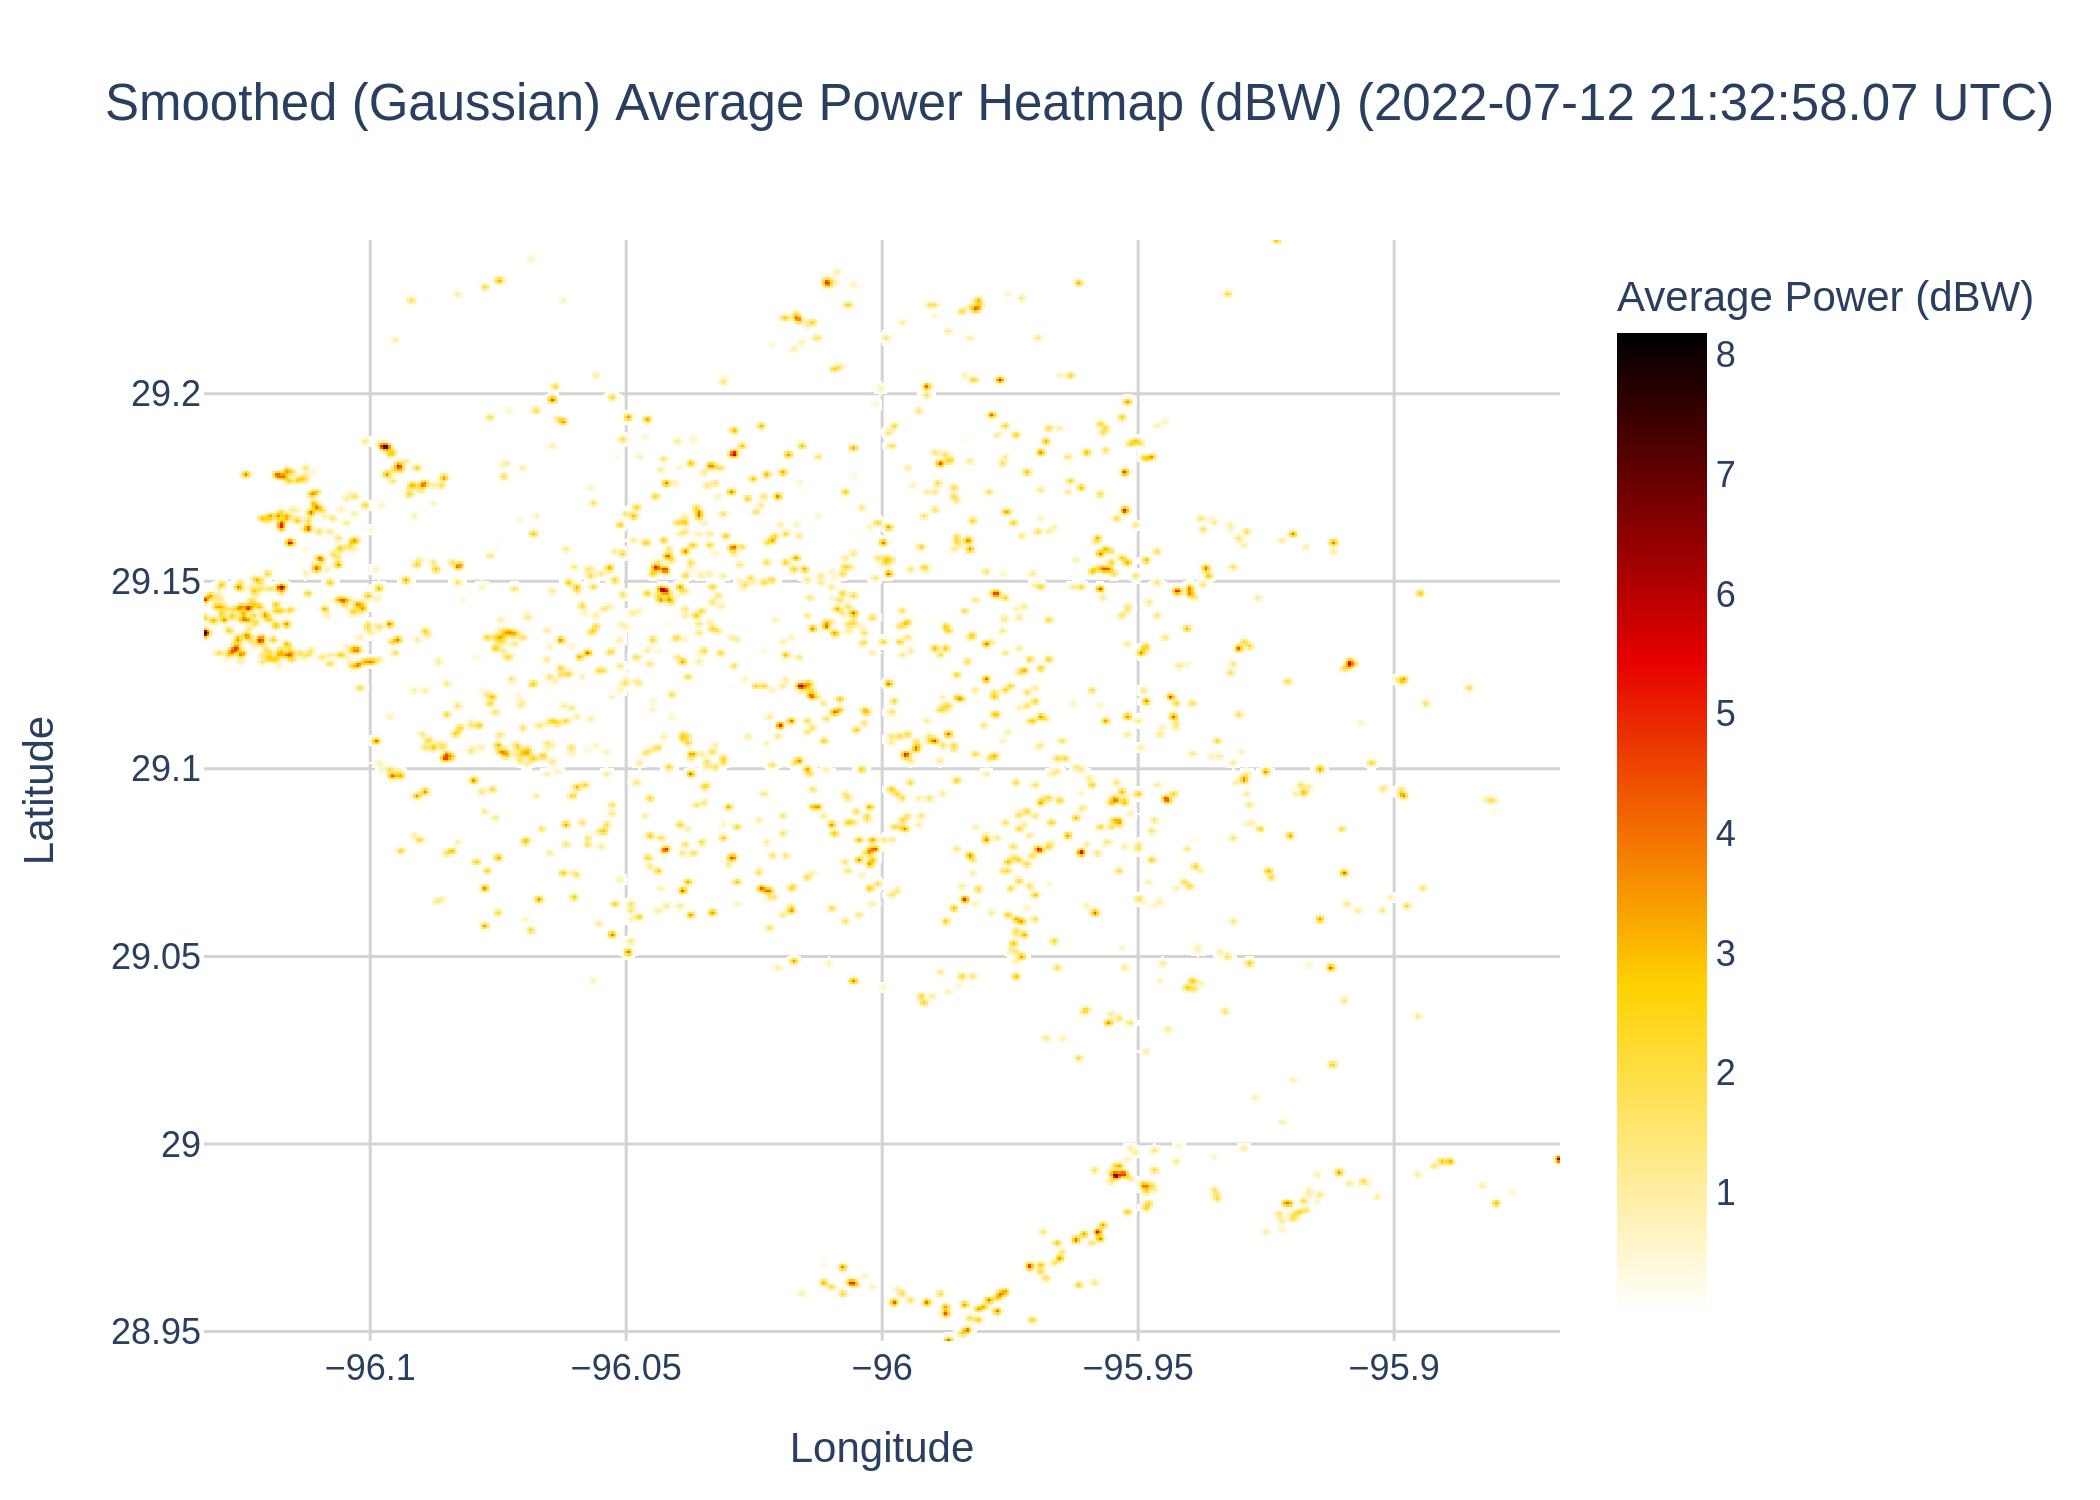
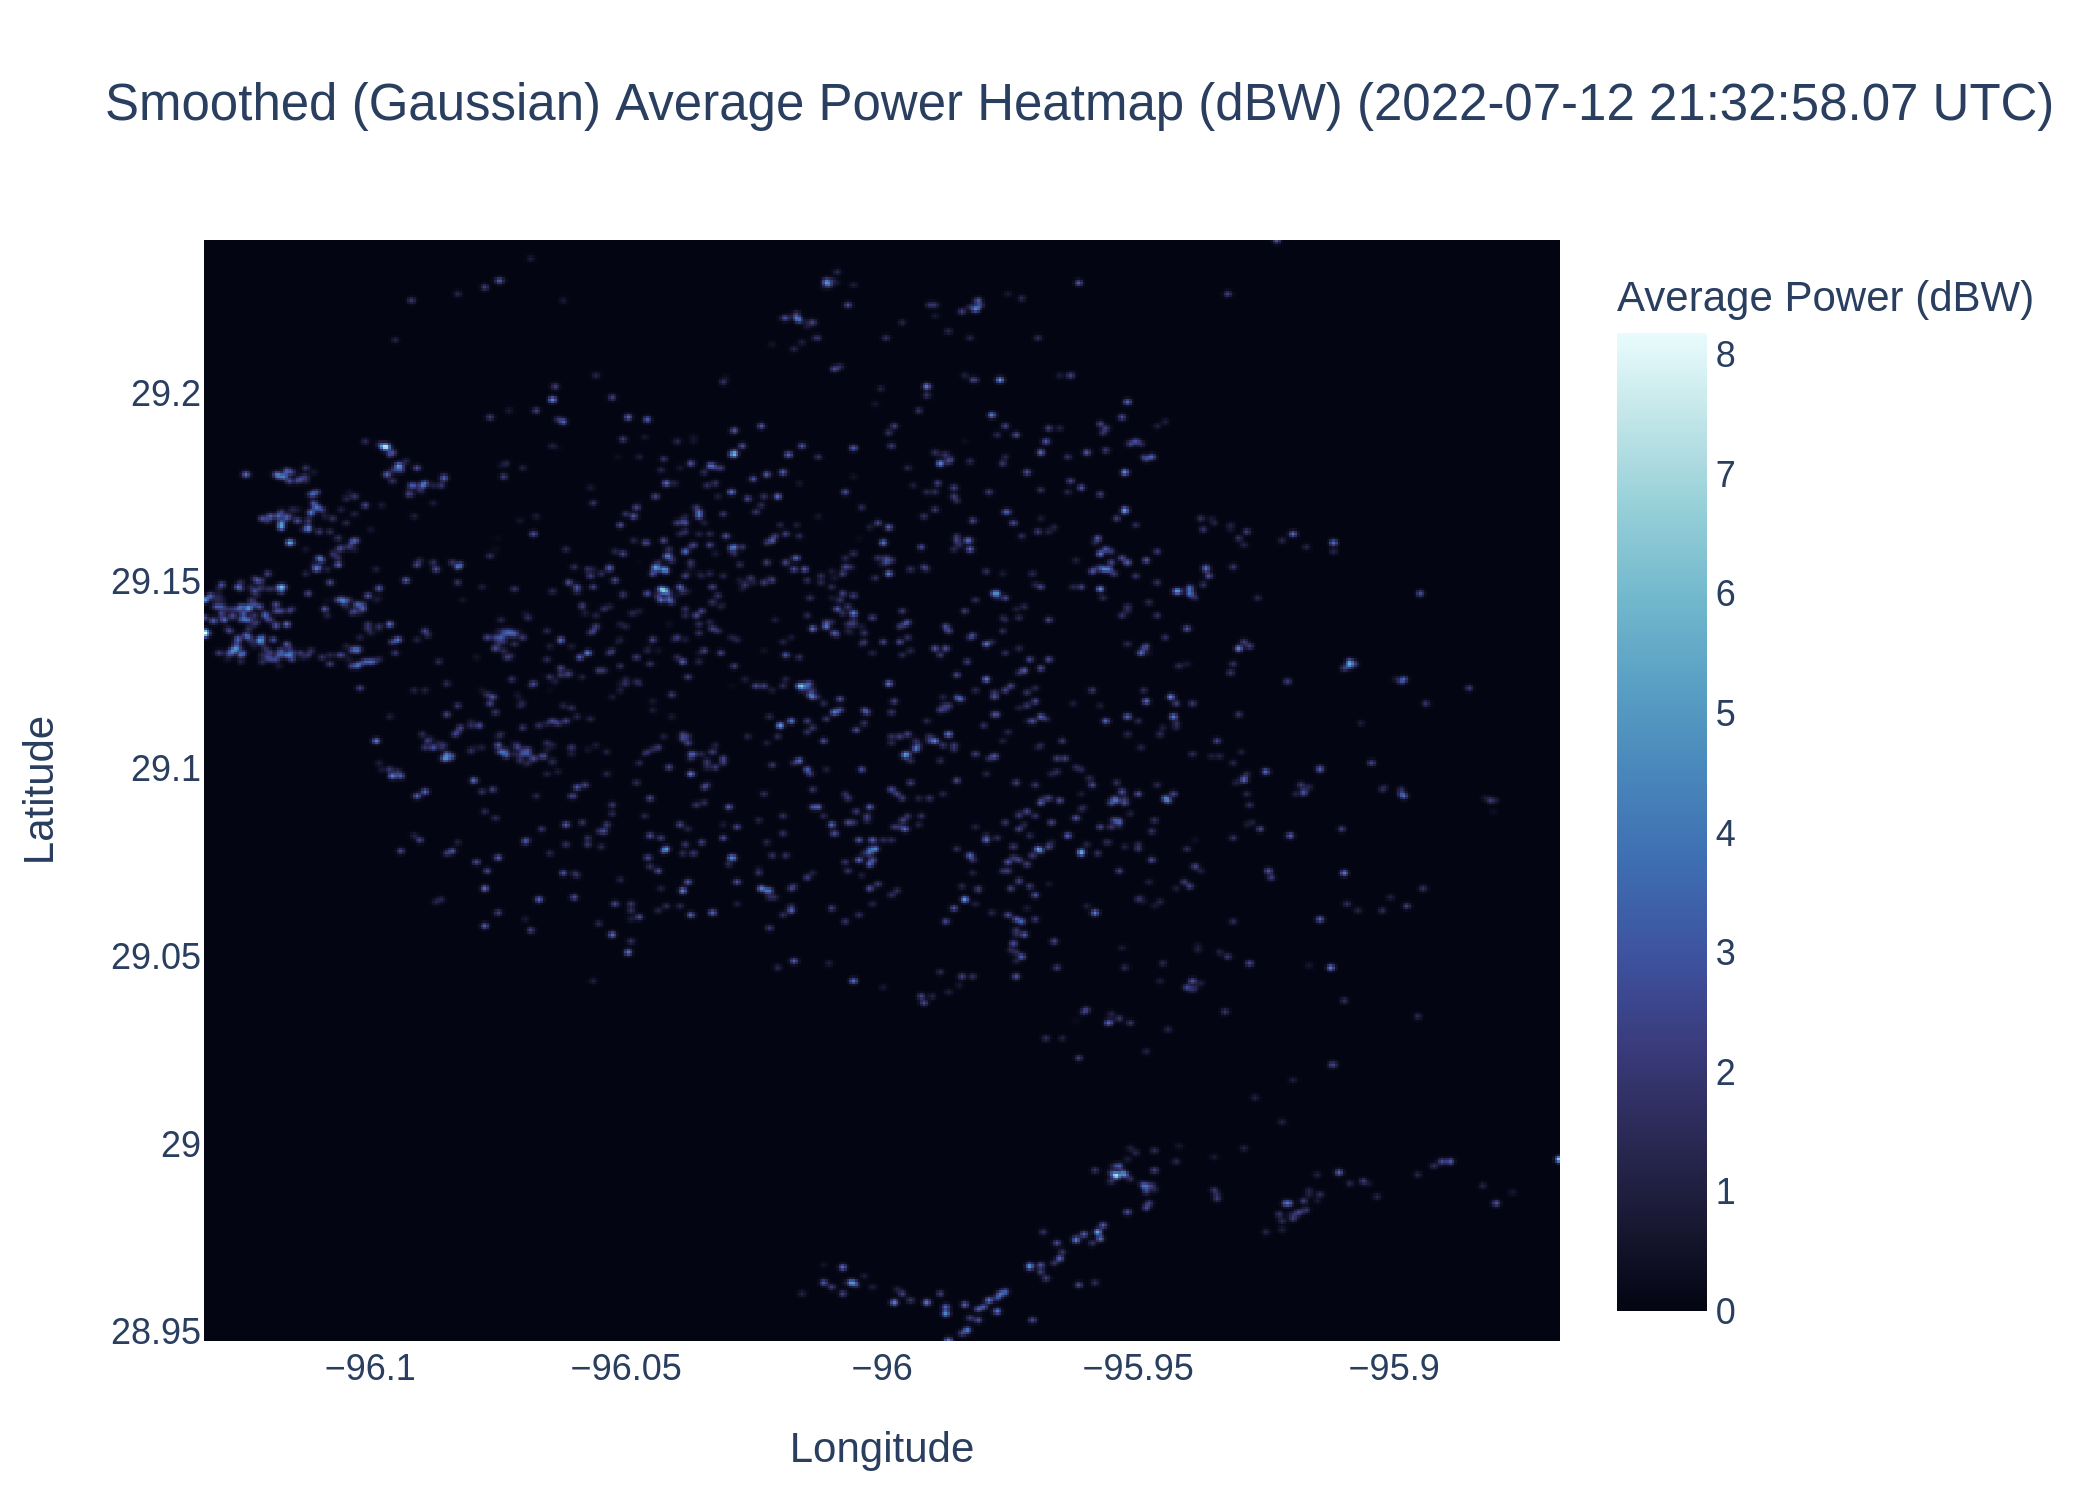
improved appearance and disabled transparency

diff --git a/main.py b/main.py
@@ -231,14 +231,14 @@ lightning_plotters.plot_strikes_over_time(bucketed_strikes_indeces_sorted, event
 # Exporting most points
 print("Exporting largest instance")
 largest_strike = bucketed_strikes_indeces_sorted[0]
-lightning_plotters.plot_avg_power_map(largest_strike, events, output_filename="most_pts.png")
-lightning_plotters.generate_strike_gif(largest_strike, events, output_filename="most_pts.gif")
+lightning_plotters.plot_avg_power_map(largest_strike, events, output_filename="most_pts.png", transparency_threshold=-1)
+lightning_plotters.generate_strike_gif(largest_strike, events, output_filename="most_pts.gif", transparency_threshold=-1)
 
 # Exporting strongest power
 print("Exporting the strongest power")
 strongest_power_strike = bucketed_strikes_indeces_sorted_by_power[0]
-lightning_plotters.plot_avg_power_map(strongest_power_strike, events, output_filename="strongest_power.png")
-lightning_plotters.generate_strike_gif(strongest_power_strike, events, output_filename="strongest_power.gif")
+lightning_plotters.plot_avg_power_map(strongest_power_strike, events, output_filename="strongest_power.png", transparency_threshold=-1)
+lightning_plotters.generate_strike_gif(strongest_power_strike, events, output_filename="strongest_power.gif", transparency_threshold=-1)
 
 print("Plotting all strikes into a readable heatmap.")
 strike_dir = "strikes"

diff --git a/lightning_plotters.py b/lightning_plotters.py
@@ -165,12 +165,12 @@ def plot_avg_power_map(
         x=lon_centers,
         y=lat_centers,
         z=blurred_stat,
-        colorscale="Hot",
+        colorscale="ice",
         colorbar=dict(title="Average Power (dBW)"),
         zauto=_zauto,
         zmin = _bar_min,
         zmax = _bar_max,
-        reversescale = True
+        reversescale = False
     )
 
     # Build the figure with layout settings.
